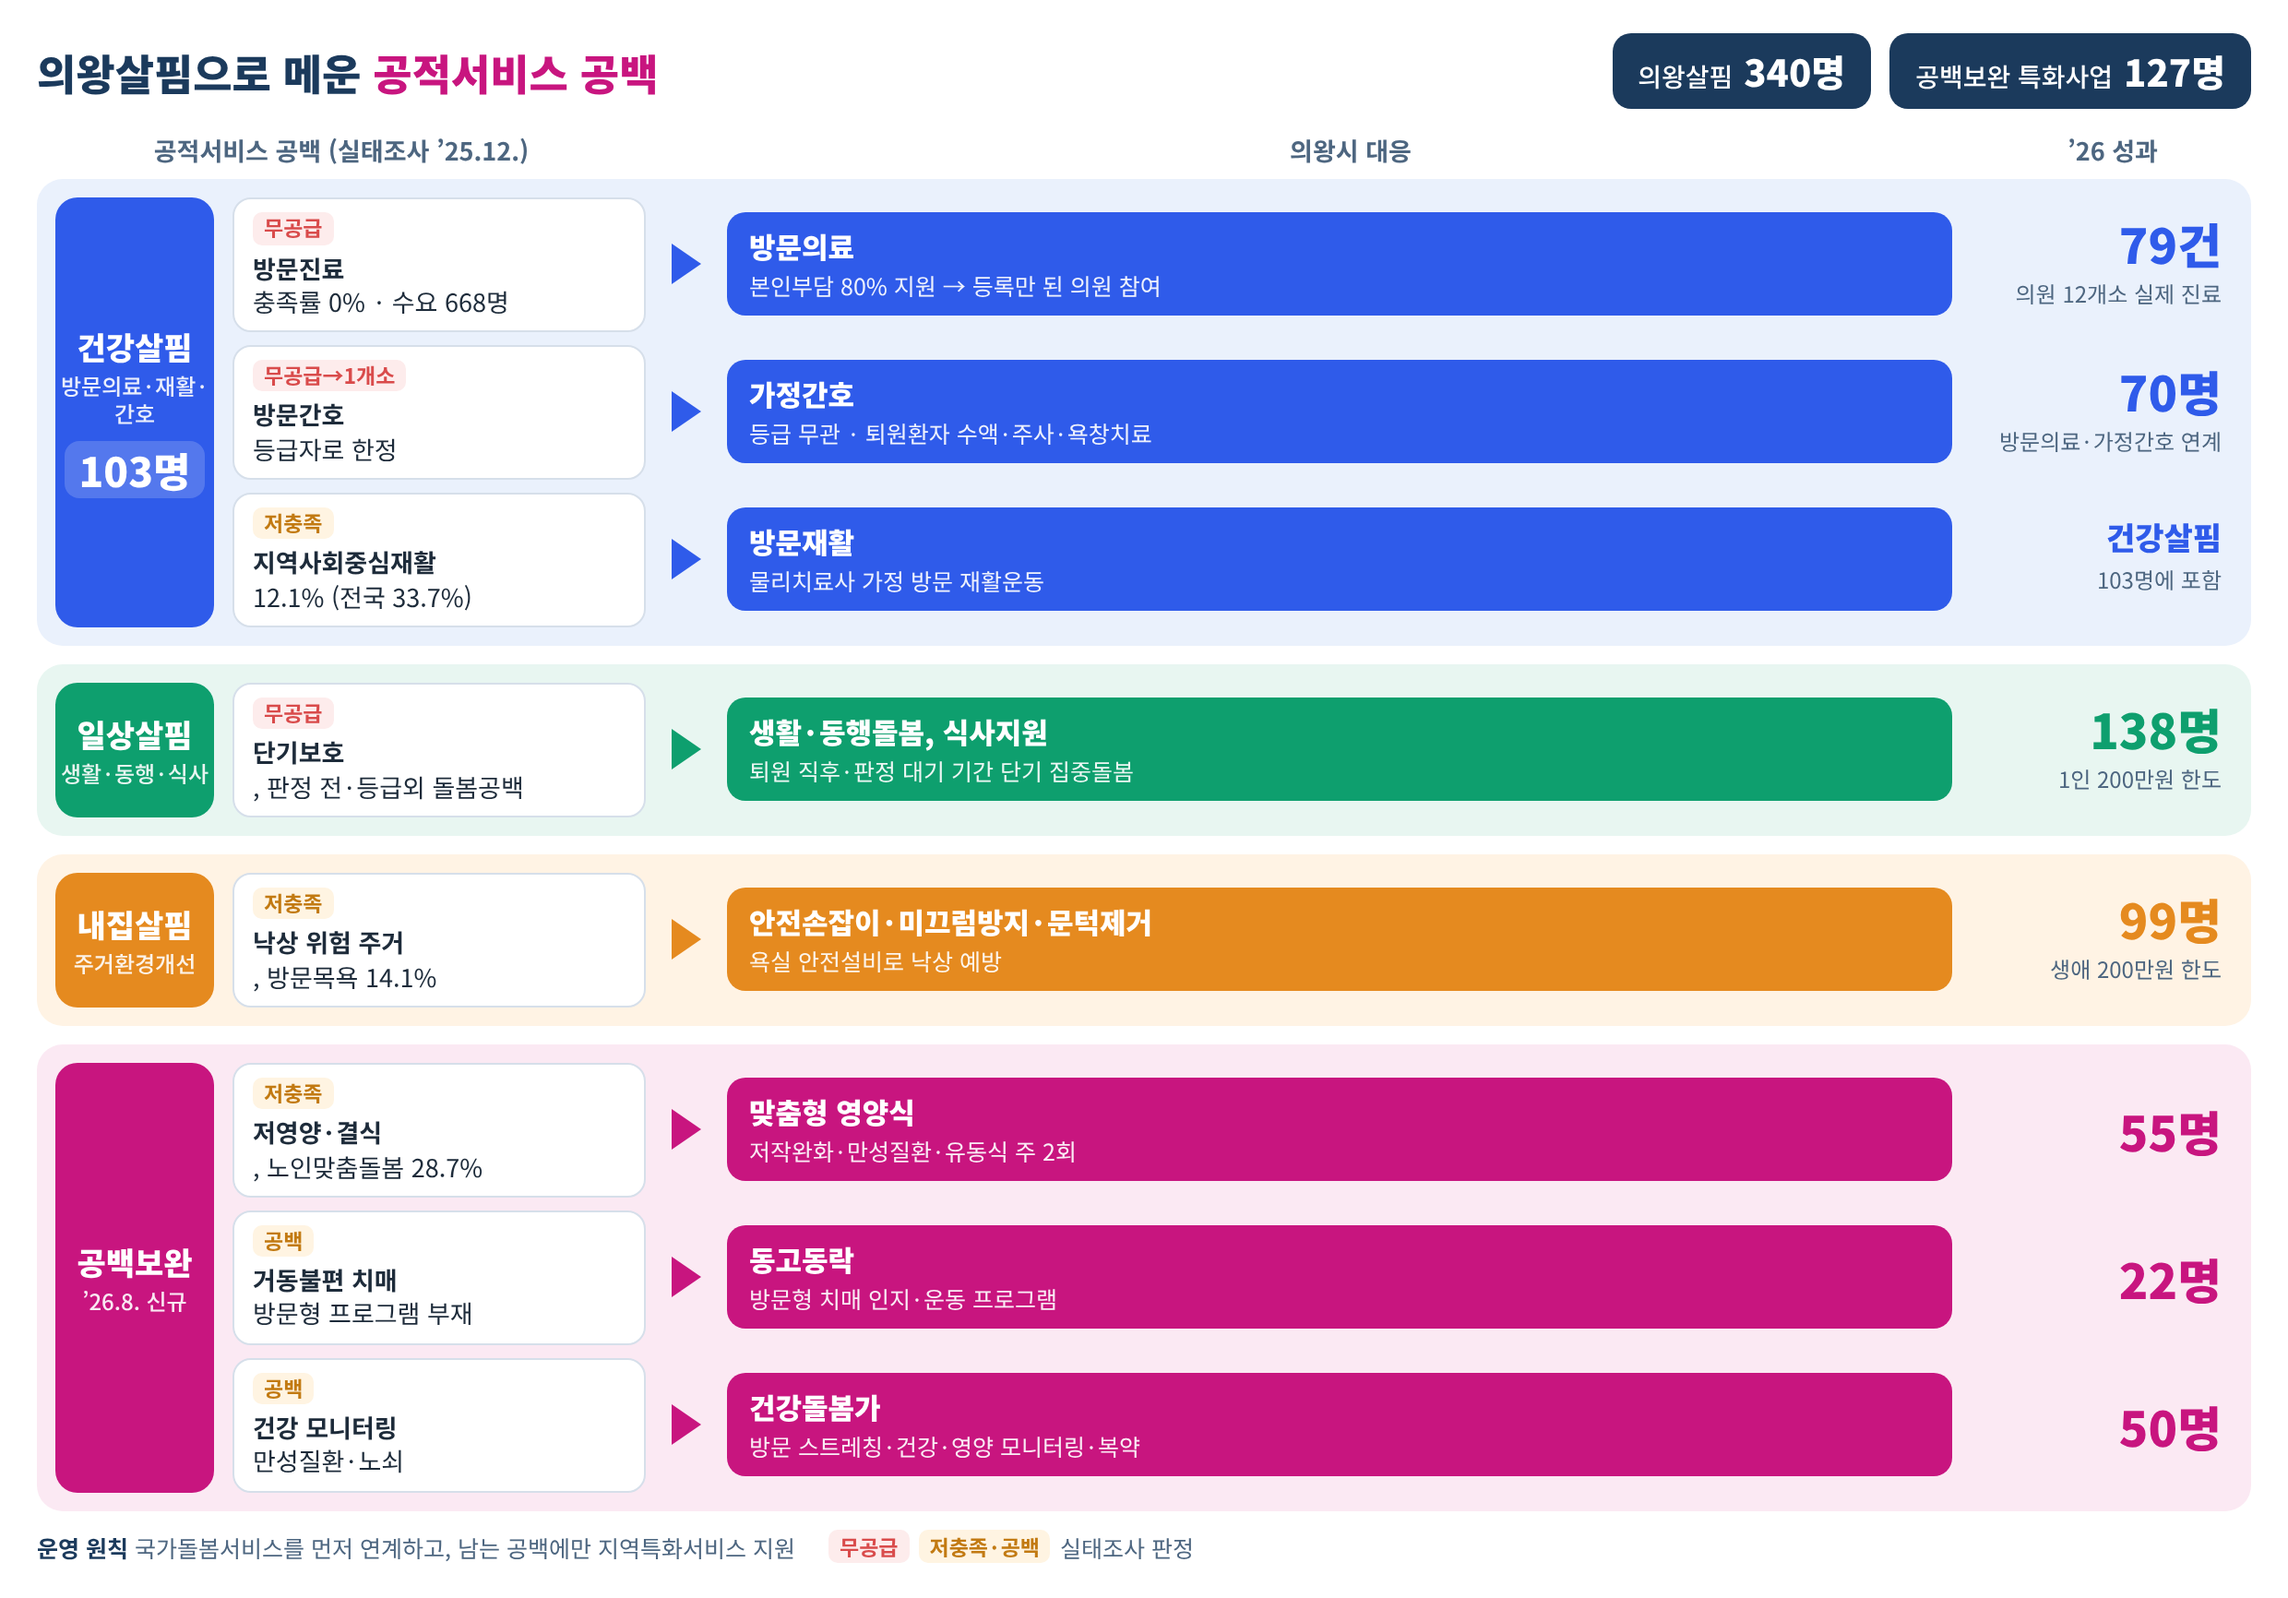
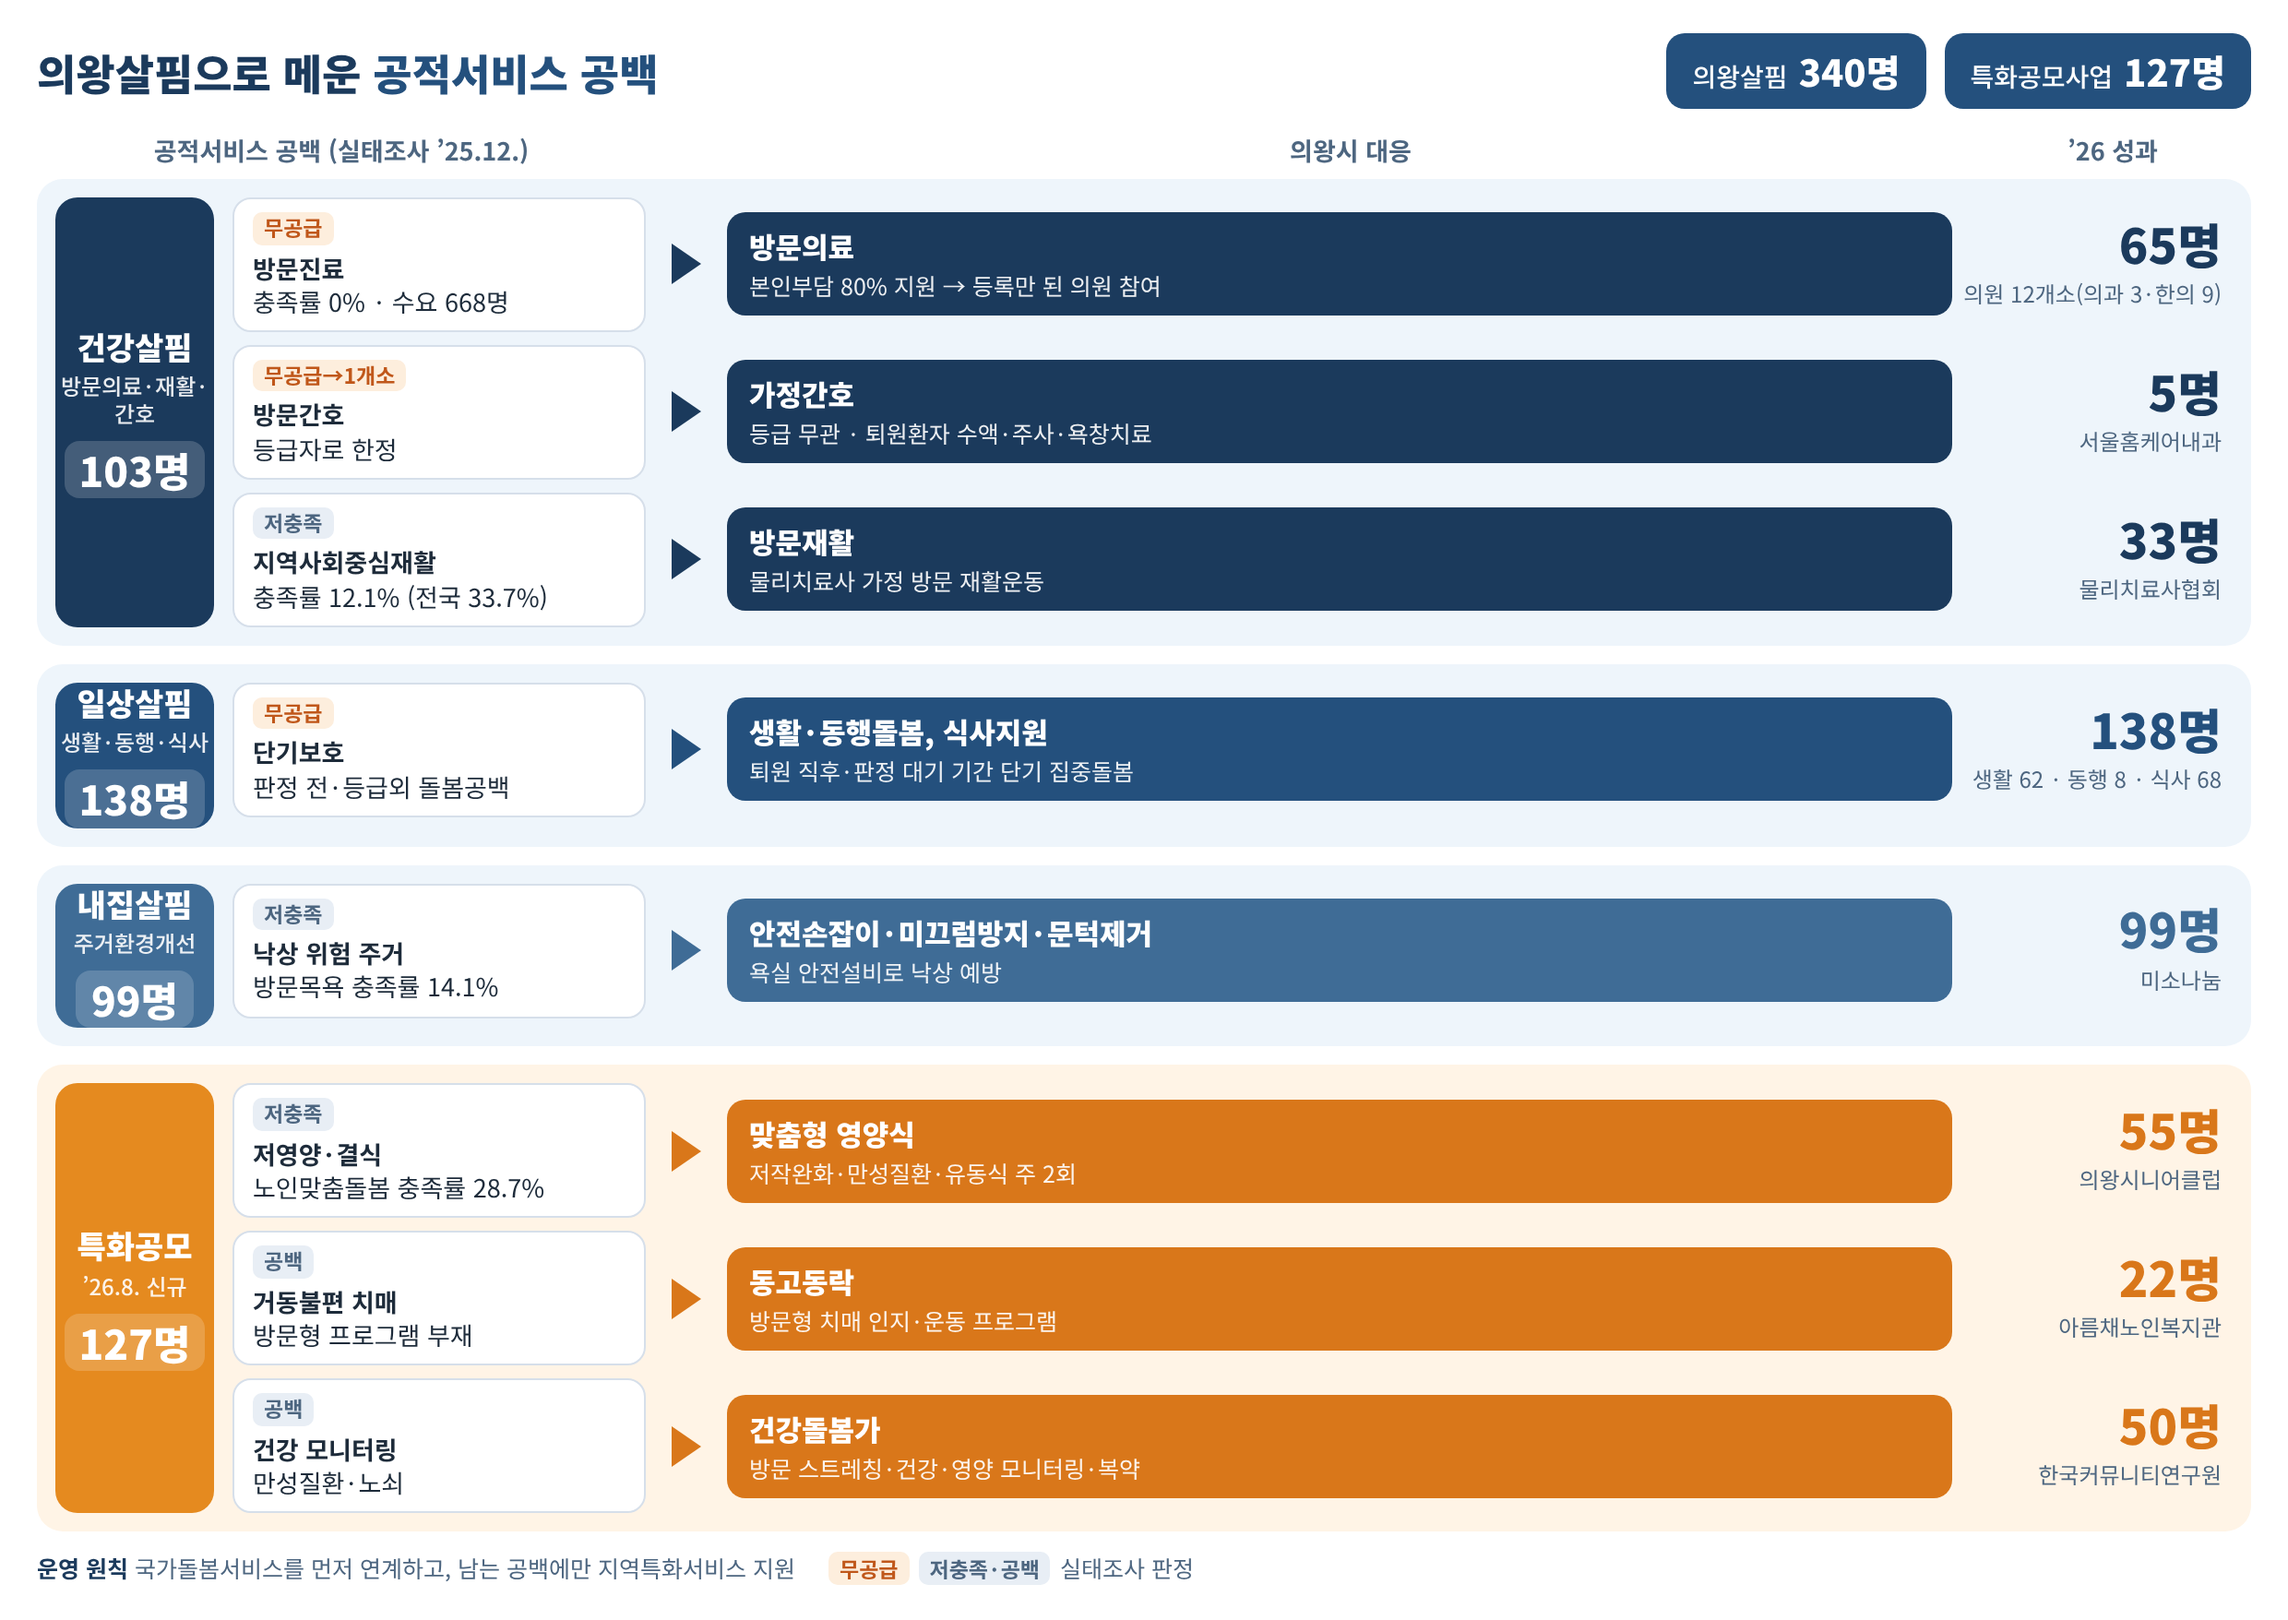
Gap-fill infographic: plan palette (no magenta), updated service counts
Claude-Session: https://claude.ai/code/session_01Rws36rz6FMs9qvhqTvH8uK

diff --git a/docs/uiwang-2027-plan/figures/src/gapfill.html b/docs/uiwang-2027-plan/figures/src/gapfill.html
@@ -2,14 +2,14 @@
 <html lang="ko"><head><meta charset="utf-8">
 <link href="https://fonts.googleapis.com/css2?family=Noto+Sans+KR:wght@400;500;700;900&display=swap" rel="stylesheet">
 <style>
-:root{--navy:#1b3a5c;--sub:#4d6680;--line:#d6dfea;--red:#d94b4b;--redbg:#fdecec;--amber:#c27a12;--ambg:#fff4e2}
+:root{--navy:#1b3a5c;--sub:#4d6680;--line:#d6dfea;--red:#c0571a;--redbg:#fdeedd;--amber:#4d6680;--ambg:#e8eef5}
 *{box-sizing:border-box;margin:0;padding:0}
 body{word-break:keep-all;font-family:'Noto Sans KR',sans-serif;color:#1d2b3a;background:#fff;padding:18px 20px;width:1240px}
 .top{display:flex;align-items:center;justify-content:space-between;margin-bottom:12px}
 .top h1{font-size:23px;font-weight:900;color:var(--navy)}
-.top h1 b{color:#c8157f}
+.top h1 b{color:#24507d}
 .tot{display:flex;gap:10px}
-.tot div{background:var(--navy);color:#fff;border-radius:10px;padding:6px 14px;font-size:14px;font-weight:500}
+.tot div{background:#24507d;color:#fff;border-radius:10px;padding:6px 14px;font-size:14px;font-weight:500}
 .tot div b{font-size:20px;font-weight:900;margin-left:6px}
 .head{display:grid;grid-template-columns:330px 44px 1fr 150px;gap:0;margin-bottom:6px;font-size:13.5px;font-weight:700;color:var(--sub);text-align:center}
 .grp{border-radius:14px;padding:10px 12px 10px 0;margin-bottom:10px;display:grid;grid-template-columns:96px 1fr;gap:10px;align-items:stretch}
@@ -18,7 +18,8 @@ body{word-break:keep-all;font-family:'Noto Sans KR',sans-serif;color:#1d2b3a;bac
 .tag small{display:block;font-size:12px;font-weight:500;opacity:.9;margin-top:3px}
 .rows{display:flex;flex-direction:column;gap:7px}
 .row{display:grid;grid-template-columns:224px 44px 1fr 150px;align-items:center}
-.gap{background:#fff;border:1.5px solid var(--line);border-radius:10px;padding:7px 10px;font-size:13.5px;line-height:1.35;min-height:54px;display:flex;flex-direction:column;justify-content:center}
+.gap{background:#fff;border:1.5px solid var(--line);border-radius:10px;padding:7px 10px;font-size:13.5px;line-height:1.35;min-height:54px;display:block}
+.gap .st{display:table!important}
 .gap .st{display:inline-block;font-size:11.5px;font-weight:700;border-radius:5px;padding:1px 6px;margin-bottom:3px;width:max-content}
 .gap .st.r{background:var(--redbg);color:var(--red)} .gap .st.a{background:var(--ambg);color:var(--amber)}
 .gap b{font-weight:700}
@@ -38,60 +39,60 @@ body{word-break:keep-all;font-family:'Noto Sans KR',sans-serif;color:#1d2b3a;bac
 </style></head><body>
 <div class="top">
   <h1>의왕살핌으로 메운 <b>공적서비스 공백</b></h1>
-  <div class="tot"><div>의왕살핌<b>340명</b></div><div>공백보완 특화사업<b>127명</b></div></div>
+  <div class="tot"><div>의왕살핌<b>340명</b></div><div>특화공모사업<b>127명</b></div></div>
 </div>
 <div class="head"><div>공적서비스 공백 (실태조사 ’25.12.)</div><div></div><div>의왕시 대응</div><div>’26 성과</div></div>
 
 <!-- 건강살핌 -->
-<div class="grp" style="background:#eaf1fc;--c:#2f5bea">
-  <div class="tag" style="background:#2f5bea">건강살핌<small>방문의료·재활·간호</small><b class="tn">103명</b></div>
+<div class="grp" style="background:#eef5fb;--c:#1b3a5c">
+  <div class="tag" style="background:#1b3a5c">건강살핌<small>방문의료·재활·간호</small><b class="tn">103명</b></div>
   <div class="rows">
-    <div class="row"><div class="gap"><span class="st r">무공급</span><b>방문진료</b> 충족률 0% · 수요 668명</div><div class="arr"></div>
+    <div class="row"><div class="gap"><span class="st r">무공급</span><b>방문진료</b><br>충족률 0% · 수요 668명</div><div class="arr"></div>
       <div class="svc"><b>방문의료</b><span>본인부담 80% 지원 → 등록만 된 의원 참여</span></div>
-      <div class="res"><b>79건</b><span>의원 12개소 실제 진료</span></div></div>
-    <div class="row"><div class="gap"><span class="st r">무공급→1개소</span><b>방문간호</b> 등급자로 한정</div><div class="arr"></div>
+      <div class="res"><b>65명</b><span>의원 12개소(의과 3·한의 9)</span></div></div>
+    <div class="row"><div class="gap"><span class="st r">무공급→1개소</span><b>방문간호</b><br>등급자로 한정</div><div class="arr"></div>
       <div class="svc"><b>가정간호</b><span>등급 무관 · 퇴원환자 수액·주사·욕창치료</span></div>
-      <div class="res"><b>70명</b><span>방문의료·가정간호 연계</span></div></div>
-    <div class="row"><div class="gap"><span class="st a">저충족</span><b>지역사회중심재활</b> 12.1% (전국 33.7%)</div><div class="arr"></div>
+      <div class="res"><b>5명</b><span>서울홈케어내과</span></div></div>
+    <div class="row"><div class="gap"><span class="st a">저충족</span><b>지역사회중심재활</b><br>충족률 12.1% (전국 33.7%)</div><div class="arr"></div>
       <div class="svc"><b>방문재활</b><span>물리치료사 가정 방문 재활운동</span></div>
-      <div class="res m"><b>건강살핌</b><span>103명에 포함</span></div></div>
+      <div class="res"><b>33명</b><span>물리치료사협회</span></div></div>
   </div>
 </div>
 
 <!-- 일상살핌 / 내집살핌 -->
-<div class="grp" style="background:#e8f6f1;--c:#0e9f6e">
-  <div class="tag" style="background:#0e9f6e">일상살핌<small>생활·동행·식사</small></div>
+<div class="grp" style="background:#eef5fb;--c:#24507d">
+  <div class="tag" style="background:#24507d">일상살핌<small>생활·동행·식사</small><b class="tn">138명</b></div>
   <div class="rows">
-    <div class="row"><div class="gap"><span class="st r">무공급</span><b>단기보호</b>, 판정 전·등급외 돌봄공백</div><div class="arr"></div>
+    <div class="row"><div class="gap"><span class="st r">무공급</span><b>단기보호</b><br>판정 전·등급외 돌봄공백</div><div class="arr"></div>
       <div class="svc"><b>생활·동행돌봄, 식사지원</b><span>퇴원 직후·판정 대기 기간 단기 집중돌봄</span></div>
-      <div class="res"><b>138명</b><span>1인 200만원 한도</span></div></div>
+      <div class="res"><b>138명</b><span>생활 62 · 동행 8 · 식사 68</span></div></div>
   </div>
 </div>
-<div class="grp" style="background:#fff3e4;--c:#e58a1f">
-  <div class="tag" style="background:#e58a1f">내집살핌<small>주거환경개선</small></div>
+<div class="grp" style="background:#eef5fb;--c:#3f6c96">
+  <div class="tag" style="background:#3f6c96">내집살핌<small>주거환경개선</small><b class="tn">99명</b></div>
   <div class="rows">
-    <div class="row"><div class="gap"><span class="st a">저충족</span><b>낙상 위험 주거</b>, 방문목욕 14.1%</div><div class="arr"></div>
+    <div class="row"><div class="gap"><span class="st a">저충족</span><b>낙상 위험 주거</b><br>방문목욕 충족률 14.1%</div><div class="arr"></div>
       <div class="svc"><b>안전손잡이·미끄럼방지·문턱제거</b><span>욕실 안전설비로 낙상 예방</span></div>
-      <div class="res"><b>99명</b><span>생애 200만원 한도</span></div></div>
+      <div class="res"><b>99명</b><span>미소나눔</span></div></div>
   </div>
 </div>
 
 <!-- 공백보완 특화사업 -->
-<div class="grp" style="background:#fbe9f3;--c:#c8157f">
-  <div class="tag" style="background:#c8157f">공백보완<small>’26.8. 신규</small></div>
+<div class="grp" style="background:#fff4e6;--c:#d9771a">
+  <div class="tag" style="background:#e58a1f">특화공모<small>’26.8. 신규</small><b class="tn">127명</b></div>
   <div class="rows">
-    <div class="row"><div class="gap"><span class="st a">저충족</span><b>저영양·결식</b>, 노인맞춤돌봄 28.7%</div><div class="arr"></div>
+    <div class="row"><div class="gap"><span class="st a">저충족</span><b>저영양·결식</b><br>노인맞춤돌봄 충족률 28.7%</div><div class="arr"></div>
       <div class="svc"><b>맞춤형 영양식</b><span>저작완화·만성질환·유동식 주 2회</span></div>
-      <div class="res"><b>55명</b></div></div>
-    <div class="row"><div class="gap"><span class="st a">공백</span><b>거동불편 치매</b> 방문형 프로그램 부재</div><div class="arr"></div>
+      <div class="res"><b>55명</b><span>의왕시니어클럽</span></div></div>
+    <div class="row"><div class="gap"><span class="st a">공백</span><b>거동불편 치매</b><br>방문형 프로그램 부재</div><div class="arr"></div>
       <div class="svc"><b>동고동락</b><span>방문형 치매 인지·운동 프로그램</span></div>
-      <div class="res"><b>22명</b></div></div>
-    <div class="row"><div class="gap"><span class="st a">공백</span><b>건강 모니터링</b> 만성질환·노쇠</div><div class="arr"></div>
+      <div class="res"><b>22명</b><span>아름채노인복지관</span></div></div>
+    <div class="row"><div class="gap"><span class="st a">공백</span><b>건강 모니터링</b><br>만성질환·노쇠</div><div class="arr"></div>
       <div class="svc"><b>건강돌봄가</b><span>방문 스트레칭·건강·영양 모니터링·복약</span></div>
-      <div class="res"><b>50명</b></div></div>
+      <div class="res"><b>50명</b><span>한국커뮤니티연구원</span></div></div>
   </div>
 </div>
 
 <div class="note"><span><i>운영 원칙</i> 국가돌봄서비스를 먼저 연계하고, 남는 공백에만 지역특화서비스 지원</span>
-  <span class="lg"><em style="background:#fdecec;color:#d94b4b">무공급</em><em style="background:#fff4e2;color:#c27a12">저충족·공백</em> 실태조사 판정</span></div>
+  <span class="lg"><em style="background:#fdeedd;color:#c0571a">무공급</em><em style="background:#e8eef5;color:#4d6680">저충족·공백</em> 실태조사 판정</span></div>
 </body></html>
